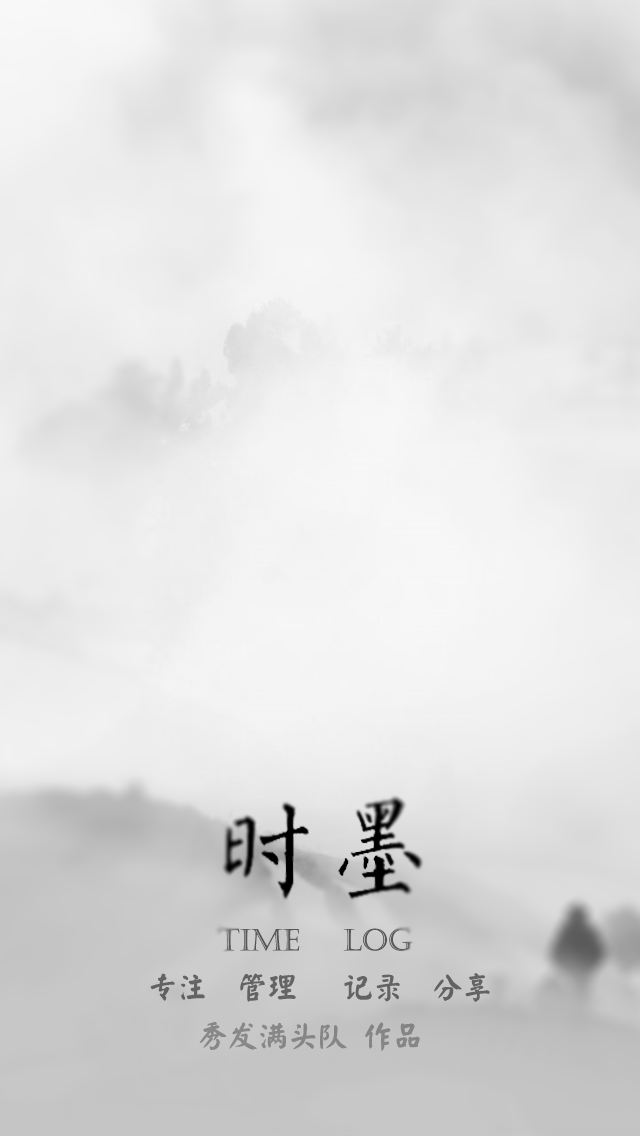
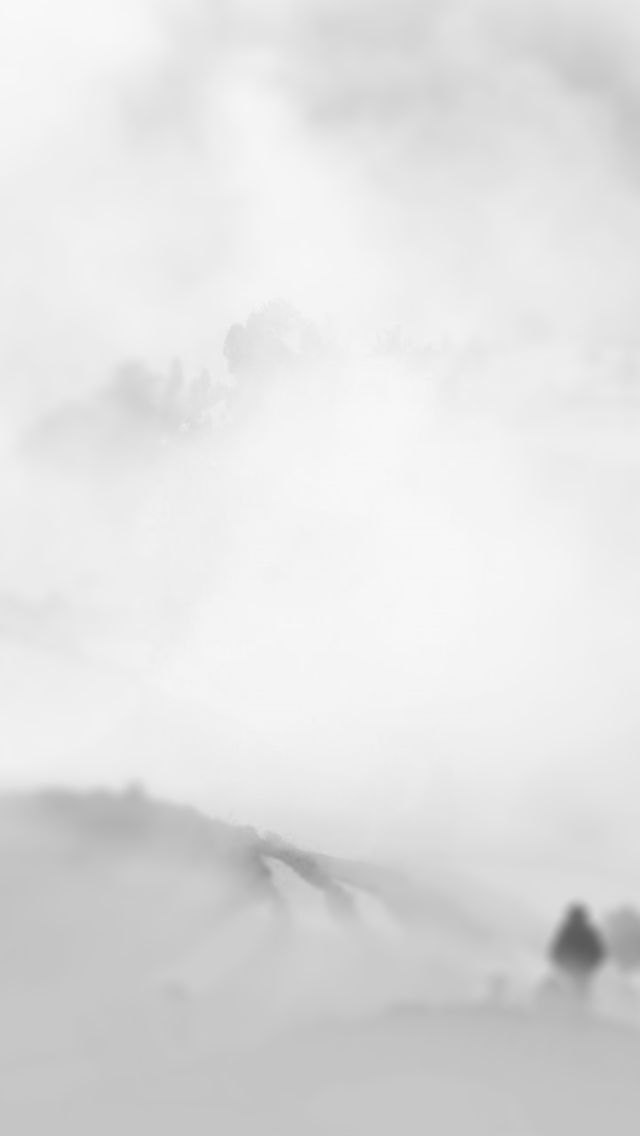
add animation

diff --git a/src/pages/Login_first.js b/src/pages/Login_first.js
@@ -1,34 +1,34 @@
 import React, { Component } from 'react'
 import { 
     Image,
-    View,
+    Text,
     StyleSheet,
     TextInput,
     TouchableOpacity,
-    Text,
     ImageBackground,
     InteractionManager,
     AsyncStorage,
     } from 'react-native'
 import Toast, {DURATION} from 'react-native-easy-toast'
 import { StackNavigator } from 'react-navigation';
+import { createAnimatableComponent, View} from 'react-native-animatable'
 
 export default class Loginfirst extends Component {
   static navigationOptions = {
     headerTitle: 
       <View style={{flex: 1,flexDirection: 'column',alignItems: 'center'}}>
-        <Text style={{color: 'rgb(222,148,151)',fontSize:20}}>登录</Text>
+        <Text style={{color: '#686868',fontSize:20}}>登录</Text>
       </View>,
     headerRight:
-      <View style={{flex: 1,flexDirection: 'column',alignItems: 'flex-end',marginRight:20}}>
+      <View  style={{flex: 1,flexDirection: 'column',alignItems: 'flex-end',marginRight:20}}>
         <TouchableOpacity
         activeOpacity={0.75}
         onPress={() => navigation.navigate('Register')}
         style={{flexDirection:'row',alignItems: 'center'}}>
-          <Text style={{color: 'rgb(222,148,151)',fontSize:20}}>注册</Text>
+          <Text style={{color: '#686868',fontSize:20}}>注册</Text>
         </TouchableOpacity>
       </View>,
-    headerTintColor:'rgb(222,148,151)',
+    headerTintColor:'#686868',
   };
 
   constructor(props) {
@@ -141,7 +141,9 @@ export default class Loginfirst extends Component {
         </View>
 
         <View
-          style={styles.inputBox}>
+          animation='fadeInLeft'
+          style={styles.inputBox}
+          useNativeDriver>
           <Text
             style={styles.btText}>用户名</Text>
           <TextInput
@@ -151,7 +153,10 @@ export default class Loginfirst extends Component {
         </View>
 
         <View
-          style={styles.inputBox}>
+          animation='fadeInLeft'
+          delay={50}
+          style={styles.inputBox}
+          useNativeDriver>
            <Text
             style={styles.btText}>   密码   </Text>
           <TextInput
@@ -165,19 +170,30 @@ export default class Loginfirst extends Component {
         </TouchableOpacity>
         </View>
 
-
+        
+        <View
+          animation='fadeInLeft'
+          delay={100}
+          useNativeDriver>
         <TouchableOpacity
           style={styles.button}
           onPress={this.loginin}>
           <Text
             style={styles.btText}>登录</Text>
         </TouchableOpacity>
+        </View>
+                
+        <View
+          animation='fadeInLeft'
+          delay={150}
+          useNativeDriver>
         <TouchableOpacity
           style={styles.button}
           onPress={()=>{this.refs.logininfo.show("联系开发者：\nQQ：1009670650 \n邮箱：wenhao_jun@outlook.com",1500)}}>
           <Text
             style={styles.btText}>登录遇到问题，需要帮助</Text>
         </TouchableOpacity>
+        </View>
     </ImageBackground>
       <Toast ref="logininfo" position='top' opacity={0.6}/>
     </View>

diff --git a/src/pages/Profile.js b/src/pages/Profile.js
@@ -1,7 +1,6 @@
 import React, {PureComponent} from 'react'
 import {
     StyleSheet,
-    View,
     TouchableOpacity,
     Text,
     ImageBackground,
@@ -11,6 +10,7 @@ import {
 import { StackNavigator } from 'react-navigation';
 import Login from './Login_new'
 import Toast, {DURATION} from 'react-native-easy-toast'
+import {createAnimatableComponent, View,} from 'react-native-animatable'
 
 export default class Profile extends PureComponent {
     constructor(props) {
@@ -104,21 +104,28 @@ export default class Profile extends PureComponent {
                         title="专注统计"
                         imageName={require('../resource/ic_my_photos.png')}
                         onPress={()=>navigate('Chart')}
+                        anima='fadeInLeft'
                     />
                     <ProfileStaticCell
                         title="专注排名"
                         imageName={require('../resource/ic_my_collect.png')}
                         onPress={this._onPressStaticCell}
+                        anima='fadeInLeft'
+                        delay={50}
                     />
                     <ProfileStaticCell
                         title="我的收藏"
                         imageName={require('../resource/ic_my_upload.png')}
                         onPress={this._onPressStaticCell}
+                        anima='fadeInLeft'
+                        delay={100}
                     />
                     <ProfileStaticCell
                         title="重置应用状态"
                         imageName={require('../resource/ic_my_right.png')}
                         onPress={this.refresh}
+                        anima='fadeInLeft'
+                        delay={150}
                     />
                 </View>
                 <Toast ref="logininfo" position='top' opacity={0.6}/>
@@ -132,9 +139,12 @@ const ProfileStaticCell = ({
     title,
     imageName,
     style,
-    onPress
+    onPress,
+    anima,
+    delay
 }) => {
     return (
+        <View animation={anima} delay={delay} useNativeDriver>
         <TouchableOpacity
             activeOpacity={0.75}
             style={styles.staticCell}
@@ -146,6 +156,7 @@ const ProfileStaticCell = ({
                 <Image style={{width: 20, height: 20}} source={require('../resource/ic_my_right.png')}/>
             </View>
         </TouchableOpacity>
+        </View>
     )
 }
 

diff --git a/src/pages/NewHome.js b/src/pages/NewHome.js
@@ -2,18 +2,18 @@ import React, { Component } from 'react'
 import {
     StyleSheet,
     ListView,
-    View,
     Image,
     ImageBackground,
-    Text,
     TouchableOpacity,
     TouchableHighlight,
     NativeModules,
-    AppState
+    AppState,
+    Alert
 } from 'react-native'
 import Toast, {DURATION} from 'react-native-easy-toast'
 import { AnimatedCircularProgress } from 'react-native-circular-progress'
 import TextInput from '../components/_TextInput'
+import { createAnimatableComponent, View, Text } from 'react-native-animatable'
 
 {
     var display="开始"
@@ -148,7 +148,11 @@ export default class NewHome extends Component {
       }).then((response) => response.json())
       .then((jsonData) => {
         let loginreturn = jsonData.status;
-        alert(loginreturn);
+        if(loginreturn=="success"){
+          Alert.alert("分享成功","将被显示在时间线上",[
+            {text: '确定', onPress: ()=> console.log('点击确定')}
+        ])
+        }
     })
     }
 
@@ -184,7 +188,8 @@ export default class NewHome extends Component {
       if (this.state.uploadData!=""){
       return(
         <View style={styles.header}>
-          <View style={styles.left}>
+          <View animation="bounceIn" style={styles.left} useNativeDriver>
+            {/*Xue:如果为ios,请移除useNativeDriver*/}
           <TouchableOpacity
             activeOpacity={0.5}
             style={styles.buttonContainer}
@@ -193,7 +198,7 @@ export default class NewHome extends Component {
             <Image source={require('../resource/ic_event_delete.png')}style={{width:30,height:30}}/>
           </TouchableOpacity>  
           </View>
-          <View style={styles.right}>
+          <View animation="bounceIn" style={styles.right} useNativeDriver>
           <TouchableOpacity
             activeOpacity={0.5}
             style={styles.buttonContainer}
@@ -220,9 +225,7 @@ export default class NewHome extends Component {
         }
         display=this.countdown() 
       return ( 
-          <View style={styles.center}>  
-            <Text style={styles.backspace}> 
-            </Text>
+          <View animation="fadeIn" style={styles.center}>  
             <AnimatedCircularProgress
             style={{opacity:0.70}}
             size={220}

diff --git a/src/pages/Splash.js b/src/pages/Splash.js
@@ -1,14 +1,15 @@
 import React, { Component } from 'react'
 import { 
     ImageBackground,
-    View,
     StyleSheet,
-    AsyncStorage
+    AsyncStorage,
+    Image
     } from 'react-native'
 
 import {Dimensions,PixelRatio} from 'react-native';
-let {WIDTH,HEIGHT} = Dimensions.get("window");
+import {createAnimatableComponent, View,} from 'react-native-animatable'
 
+let {WIDTH,HEIGHT} = Dimensions.get("window");
 export default class Splash extends Component {
     constructor(props) {
         super(props);
@@ -36,7 +37,7 @@ export default class Splash extends Component {
                 this.props.navigation.navigate('Swiper');
             else
                 this.props.navigation.navigate('BaseTab');
-        }, 1200)
+        }, 2000)
     }
 
     componentWillUnmount() {
@@ -47,17 +48,32 @@ export default class Splash extends Component {
         return (
             <View style={styles.container}>  
             <ImageBackground
-                style={styles.container}
+                style={{flex:1}}
                 source={require('../resource/img_intro_4.png')}
-                resizeMode="cover"/>
+                resizeMode="cover">
+                <View animation='fadeIn' delay={300} duration={1500} style={styles.center} useNativeDriver>
+                <Image
+                style={{flex:1}}
+                source={require('../resource/title.png')}
+                resizeMode="contain"/>
+                </View>
+            </ImageBackground>
             </View>
         )
     }
 }
 
 const styles = StyleSheet.create({
-   container: {
-    flex: 1,
-    backgroundColor: 'rgb(255,255,255)',
-  },
+    container: {
+        flex: 1,
+        backgroundColor: 'rgb(255,255,255)',
+        flexDirection: 'column',
+    },  
+    center: {
+        flex: 1,
+        marginLeft: 18,
+        flexDirection: 'column',
+        alignItems: 'center',
+        justifyContent:'center',
+    },
 });

diff --git a/src/pages/Timeline.js b/src/pages/Timeline.js
@@ -44,7 +44,7 @@ export default class TimeLine extends Component {
                     <View style={styles.left}>
                     </View>
                     <View style={styles.center}>
-                        <Text style={{color: '#585858',fontSize:20}}>时间线</Text>
+                        <Text style={{color: '#585858',fontSize:20}}>时间线 </Text>
                     </View>
                     <View style={styles.right}>
                     <TouchableOpacity

diff --git a/src/pages/BaseTab.js b/src/pages/BaseTab.js
@@ -66,7 +66,7 @@ const Tab = TabNavigator(
       tabBarPosition:'bottom',  
       swipeEnabled:true,  
       animationEnabled:true,  
-      lazy:false,  
+      lazy:true,  
       showIcon:true,
       tabBarOptions:{  
         activeTintColor:'#585858',  
